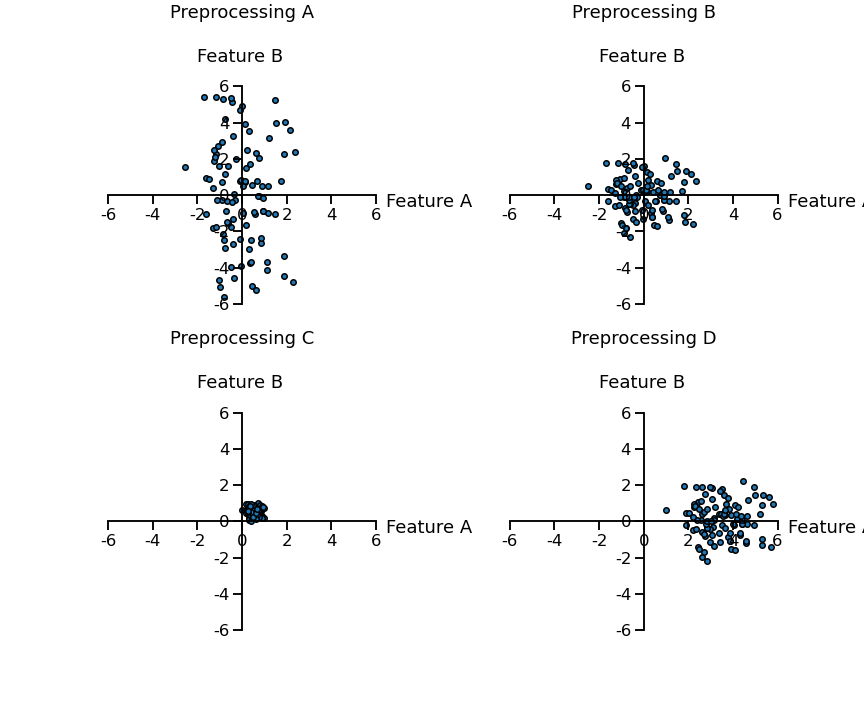
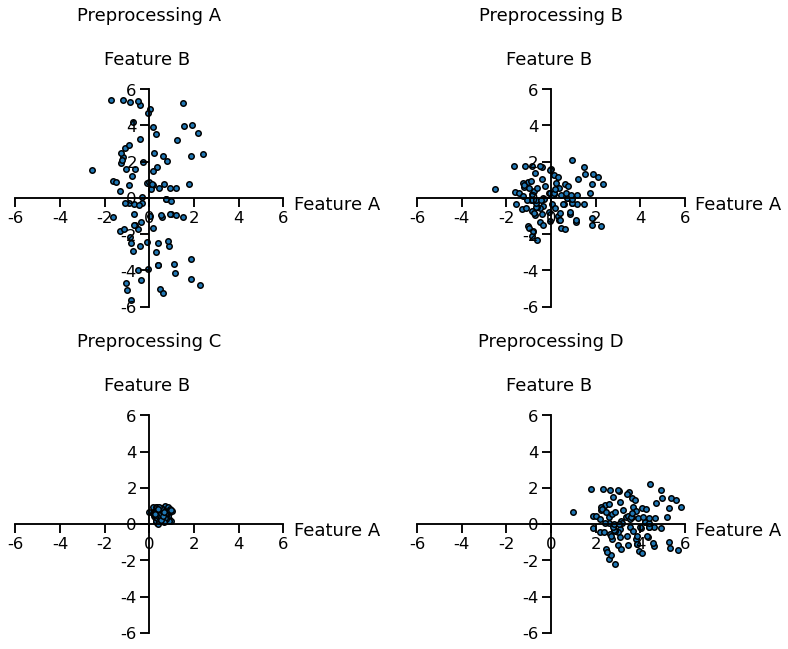
Fix bbox layout

diff --git a/figures/numerical_pipeline_quiz_scaler.py b/figures/numerical_pipeline_quiz_scaler.py
@@ -35,7 +35,7 @@ ax.xaxis.set_major_locator(ticker.FixedLocator(ticks))
 ax.set_yticklabels(ticks)
 ax.yaxis.set_major_locator(ticker.FixedLocator(ticks))
 ax.set_title("Original dataset\n\n\n", loc="center")
-plt.savefig("numerical_pipeline_quiz_scaler_original.png")
+plt.savefig("numerical_pipeline_quiz_scaler_original.png", bbox_inches="tight")
 
 # %%
 from sklearn.preprocessing import StandardScaler
@@ -77,6 +77,8 @@ for idx, (ax, data) in enumerate(
     ax.set_title(f"Preprocessing {'ABCD'[idx]}\n\n\n")
 
 fig.subplots_adjust(hspace=0.5, wspace=0.5)
-plt.savefig("numerical_pipeline_quiz_scaler_preprocessing.png")
+plt.savefig(
+    "numerical_pipeline_quiz_scaler_preprocessing.png", bbox_inches="tight"
+)
 
 # %%
